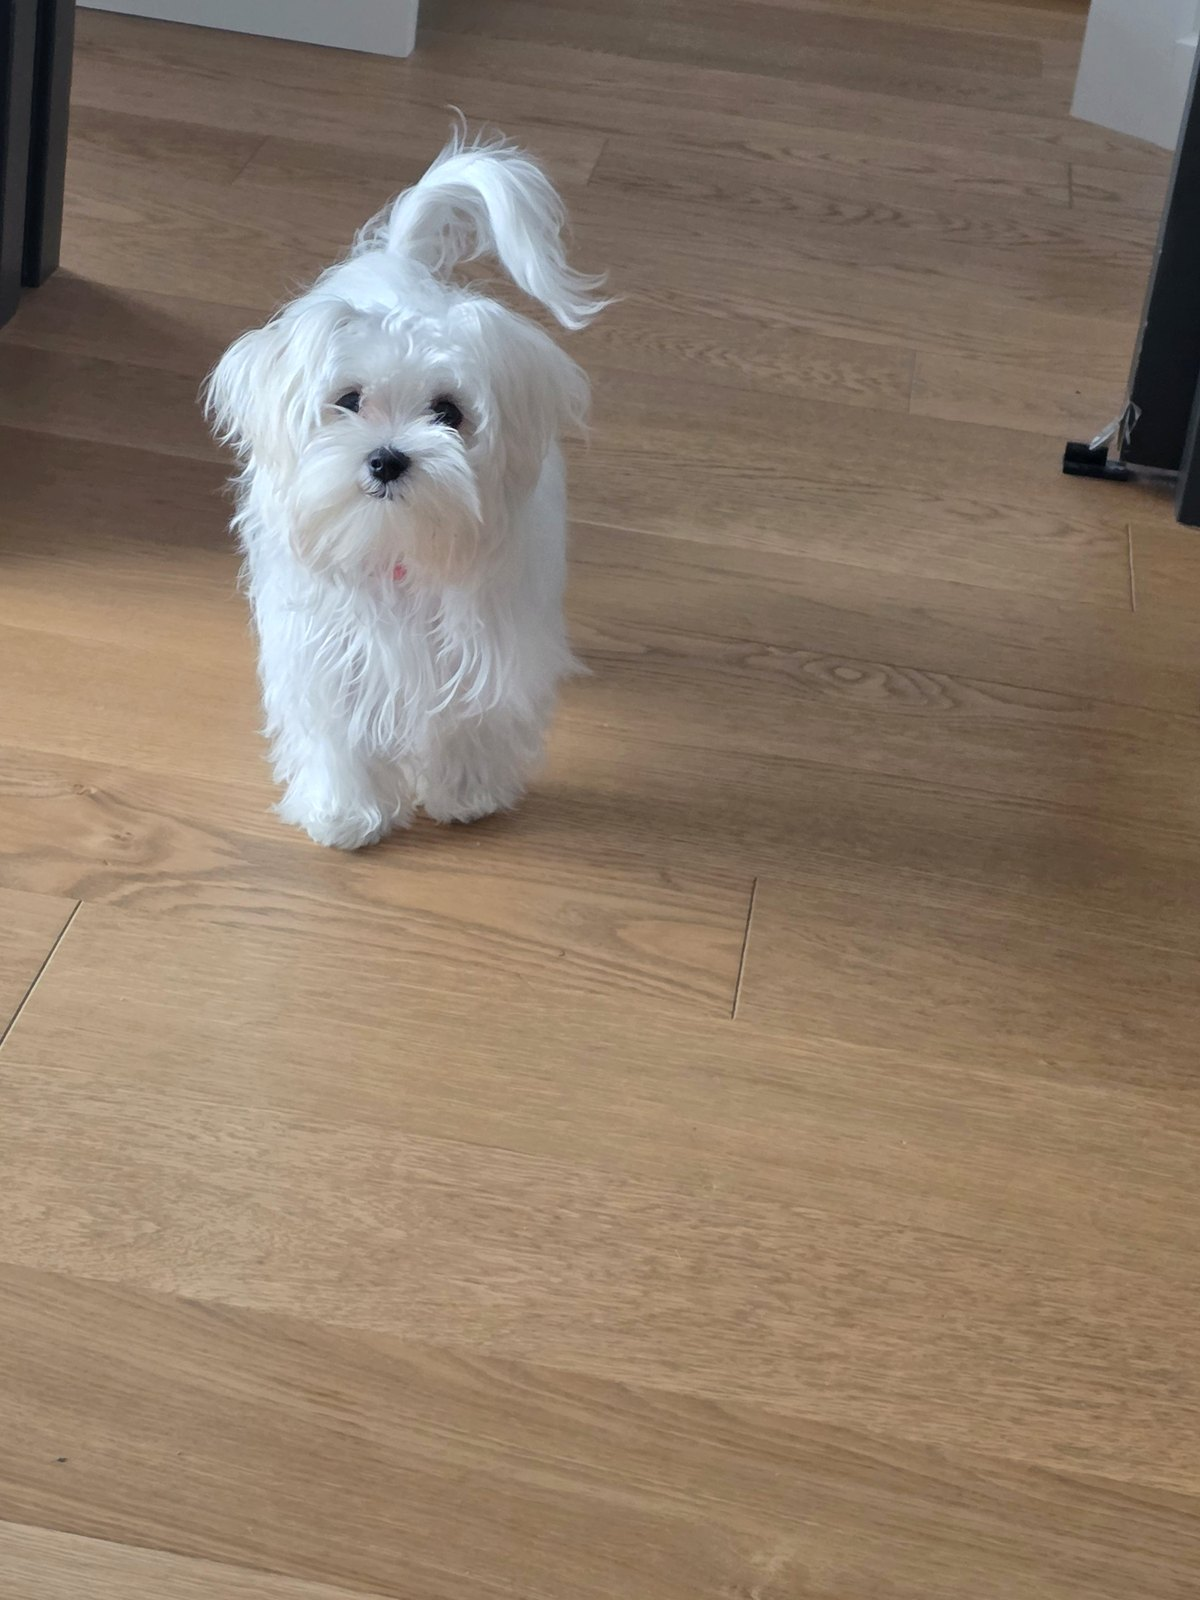
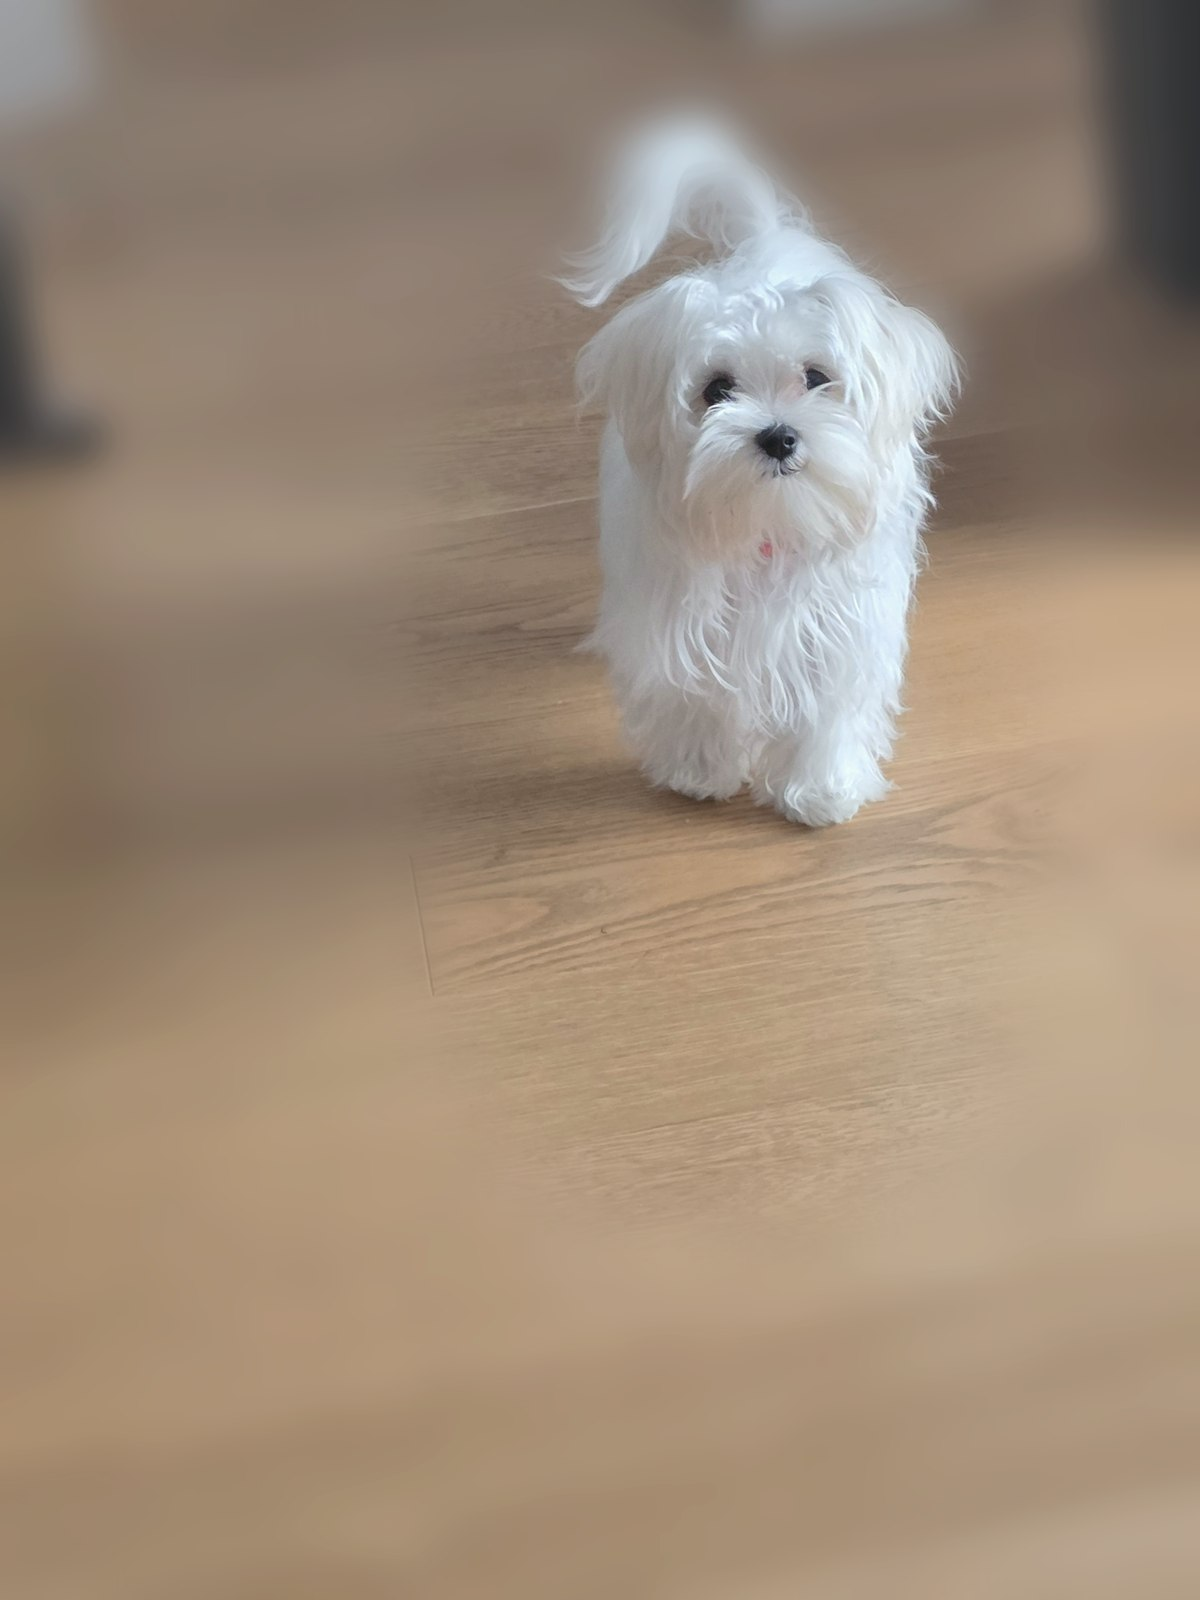
Refocus login image on Rony

diff --git a/app/lib/login_page.dart b/app/lib/login_page.dart
@@ -504,11 +504,11 @@ class _StoryPanel extends StatelessWidget {
                 gradient: LinearGradient(
                   colors: [
                     Color(0xD9172430),
-                    Color(0x80173B3C),
-                    Color(0x8C6B4A31),
+                    Color(0x99173B3C),
+                    Color(0x226B4A31),
                   ],
-                  begin: Alignment.topLeft,
-                  end: Alignment.bottomRight,
+                  begin: Alignment.centerLeft,
+                  end: Alignment.centerRight,
                 ),
               ),
             ),
